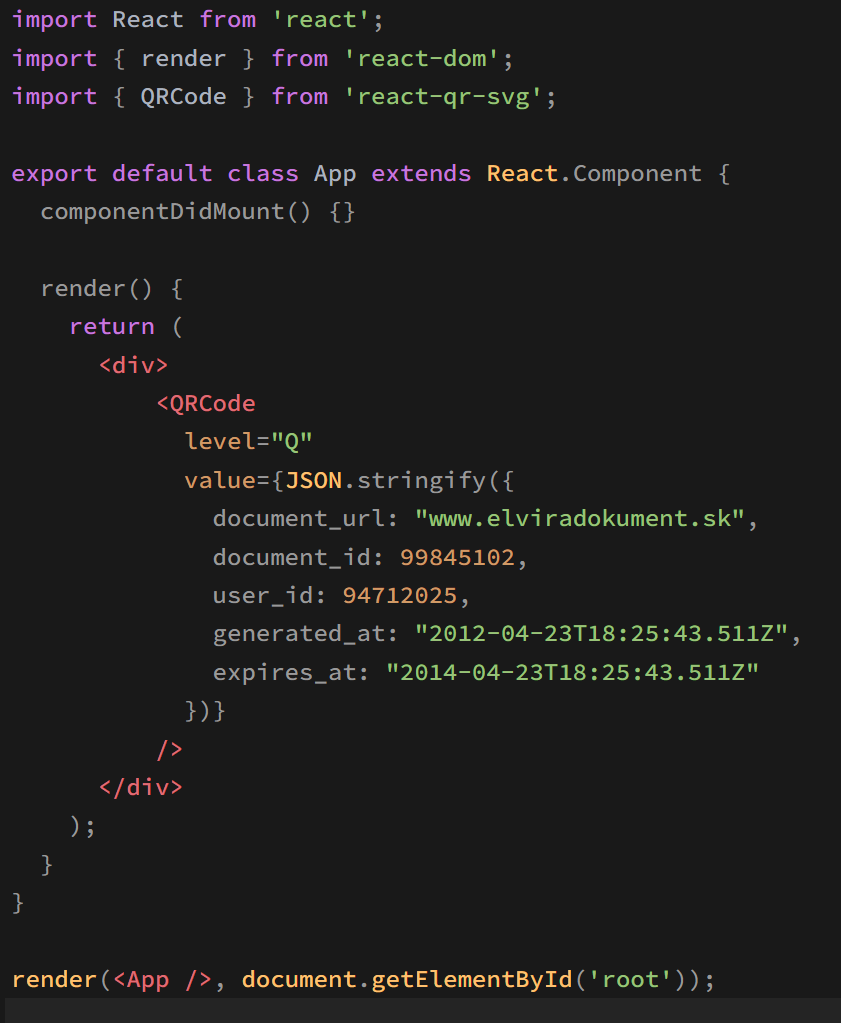
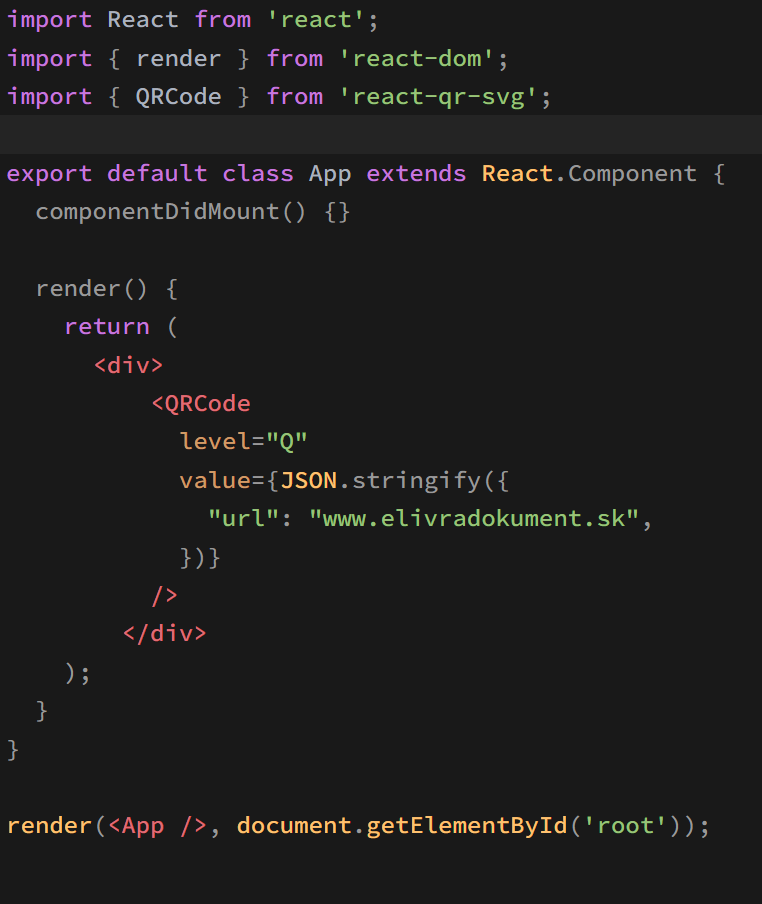
TP2022T16-52 small changes to QR code data

diff --git a/docs/specification/sharing_QR_structure.md b/docs/specification/sharing_QR_structure.md
@@ -1,15 +1,10 @@
 # Štruktúra zdieľacieho QR kódu
-Pri zdieľaní dokumentu má používateľ možnosť vygenerovať link, QR kód alebo oboje. Vďaka tomuto linku/QR kódu bude môcť svoj dokument zazdieľať s ďalšími používateľmi. Cieľom tohto QR kódu bude uľahčenie načítania dokumentu pre používateľa, ktorý má k dispozícii QR reader. Keďže informácie v QR kóde nie sú nijakým spôsobom utajované pred používateĽmi, nemusia byť šifrované.
+Pri zdieľaní dokumentu sa používateľovi vygeneruje link a QR kód. Vďaka tomuto linku/QR kódu bude môcť svoj dokument zdieľať s ďalšími používateľmi. Cieľom tohto QR kódu bude uľahčenie načítania dokumentu pre používateľa, ktorý má k dispozícii QR reader. Keďže informácia v QR kóde nie je nijakým spôsobom utajovaná pred používateĽmi, nemusia byť šifrované.
 
 ## Dáta v zdieľacom QR kóde
-V tomto QR kóde sa budú nachádzať viaceré dáta, ktoré budú poskytovať informácie o dokumente ktorý bol zdieľaný.
+V QR kóde sa bude nachádzať iba url, ktorá bude linkom na zdieľaný dokument.
 
-- **document_url** - link URL k dokumentu, ktorý bol zdieľaný
-- **document_id** - id dokumentu
-- **user_id** - id používateľa, ktorý tento dokument zdieľa
-- **generated_at** -  časová pečiatka vo forme dátumu, kedy bol dokument pre používateľa
-vygenerovaný.
-- **expires_at** - časová pečiatka vo forme dátumu, kedy QR kód stratí platnosť.
+- **url** - link URL k dokumentu, ktorý bol zdieľaný
 
 ## Spôsob generovania QR kódu
 Pri tomto QR kóde budeme pracovať s JSON formátom podobne ako pri ďalších QR kódoch používaných na eliminovanie neoprávneného zdieľania a kopírovania dokumentov. Príklad JSON-u je nasledovný.
@@ -17,7 +12,7 @@ Pri tomto QR kóde budeme pracovať s JSON formátom podobne ako pri ďalších 
 
 
 ## Generovanie
-Zdieľací QR kód budeme generovať na frontende vždy po jeho vyžiadaní od používateľa, ktorý chce zdieľať dokument týmto spôsobom. Pri zdieľaní taktiež bude zvolený dátum expirácie, ktorý bude defaultne 48 hodín, no používateľ ho bude môcť zmeniť. Keďže sa bude tento typ QR kódu vytvárať na frontende, budeme na jeho generovanie používať React. Pokiaľ máme pripravené dáta, môžeme v Reacte veľmi jednoducho vytvoriť/generovať unikátny QR kód, ktorý obsahuje práve naše dáta. Ukážka jednoduchého kódu, ktorý vygeneruje QR kód:
+Zdieľací QR kód budeme generovať na frontende vždy po jeho vyžiadaní od používateľa, ktorý chce zdieľať dokument týmto spôsobom. Pri zdieľaní taktiež bude zvolený dátum expirácie, ktorý bude môcť používateľ nastaviť. Keďže sa bude tento typ QR kódu vytvárať na frontende, budeme na jeho generovanie používať React. Pokiaľ máme pripravené dáta, môžeme v Reacte veľmi jednoducho vytvoriť/generovať unikátny QR kód, ktorý obsahuje práve naše dáta. Ukážka jednoduchého kódu, ktorý vygeneruje QR kód:
 
 ![Vytvorenie QR kódu v Reacte](@site/static/img/QR_react_example.png)
 
